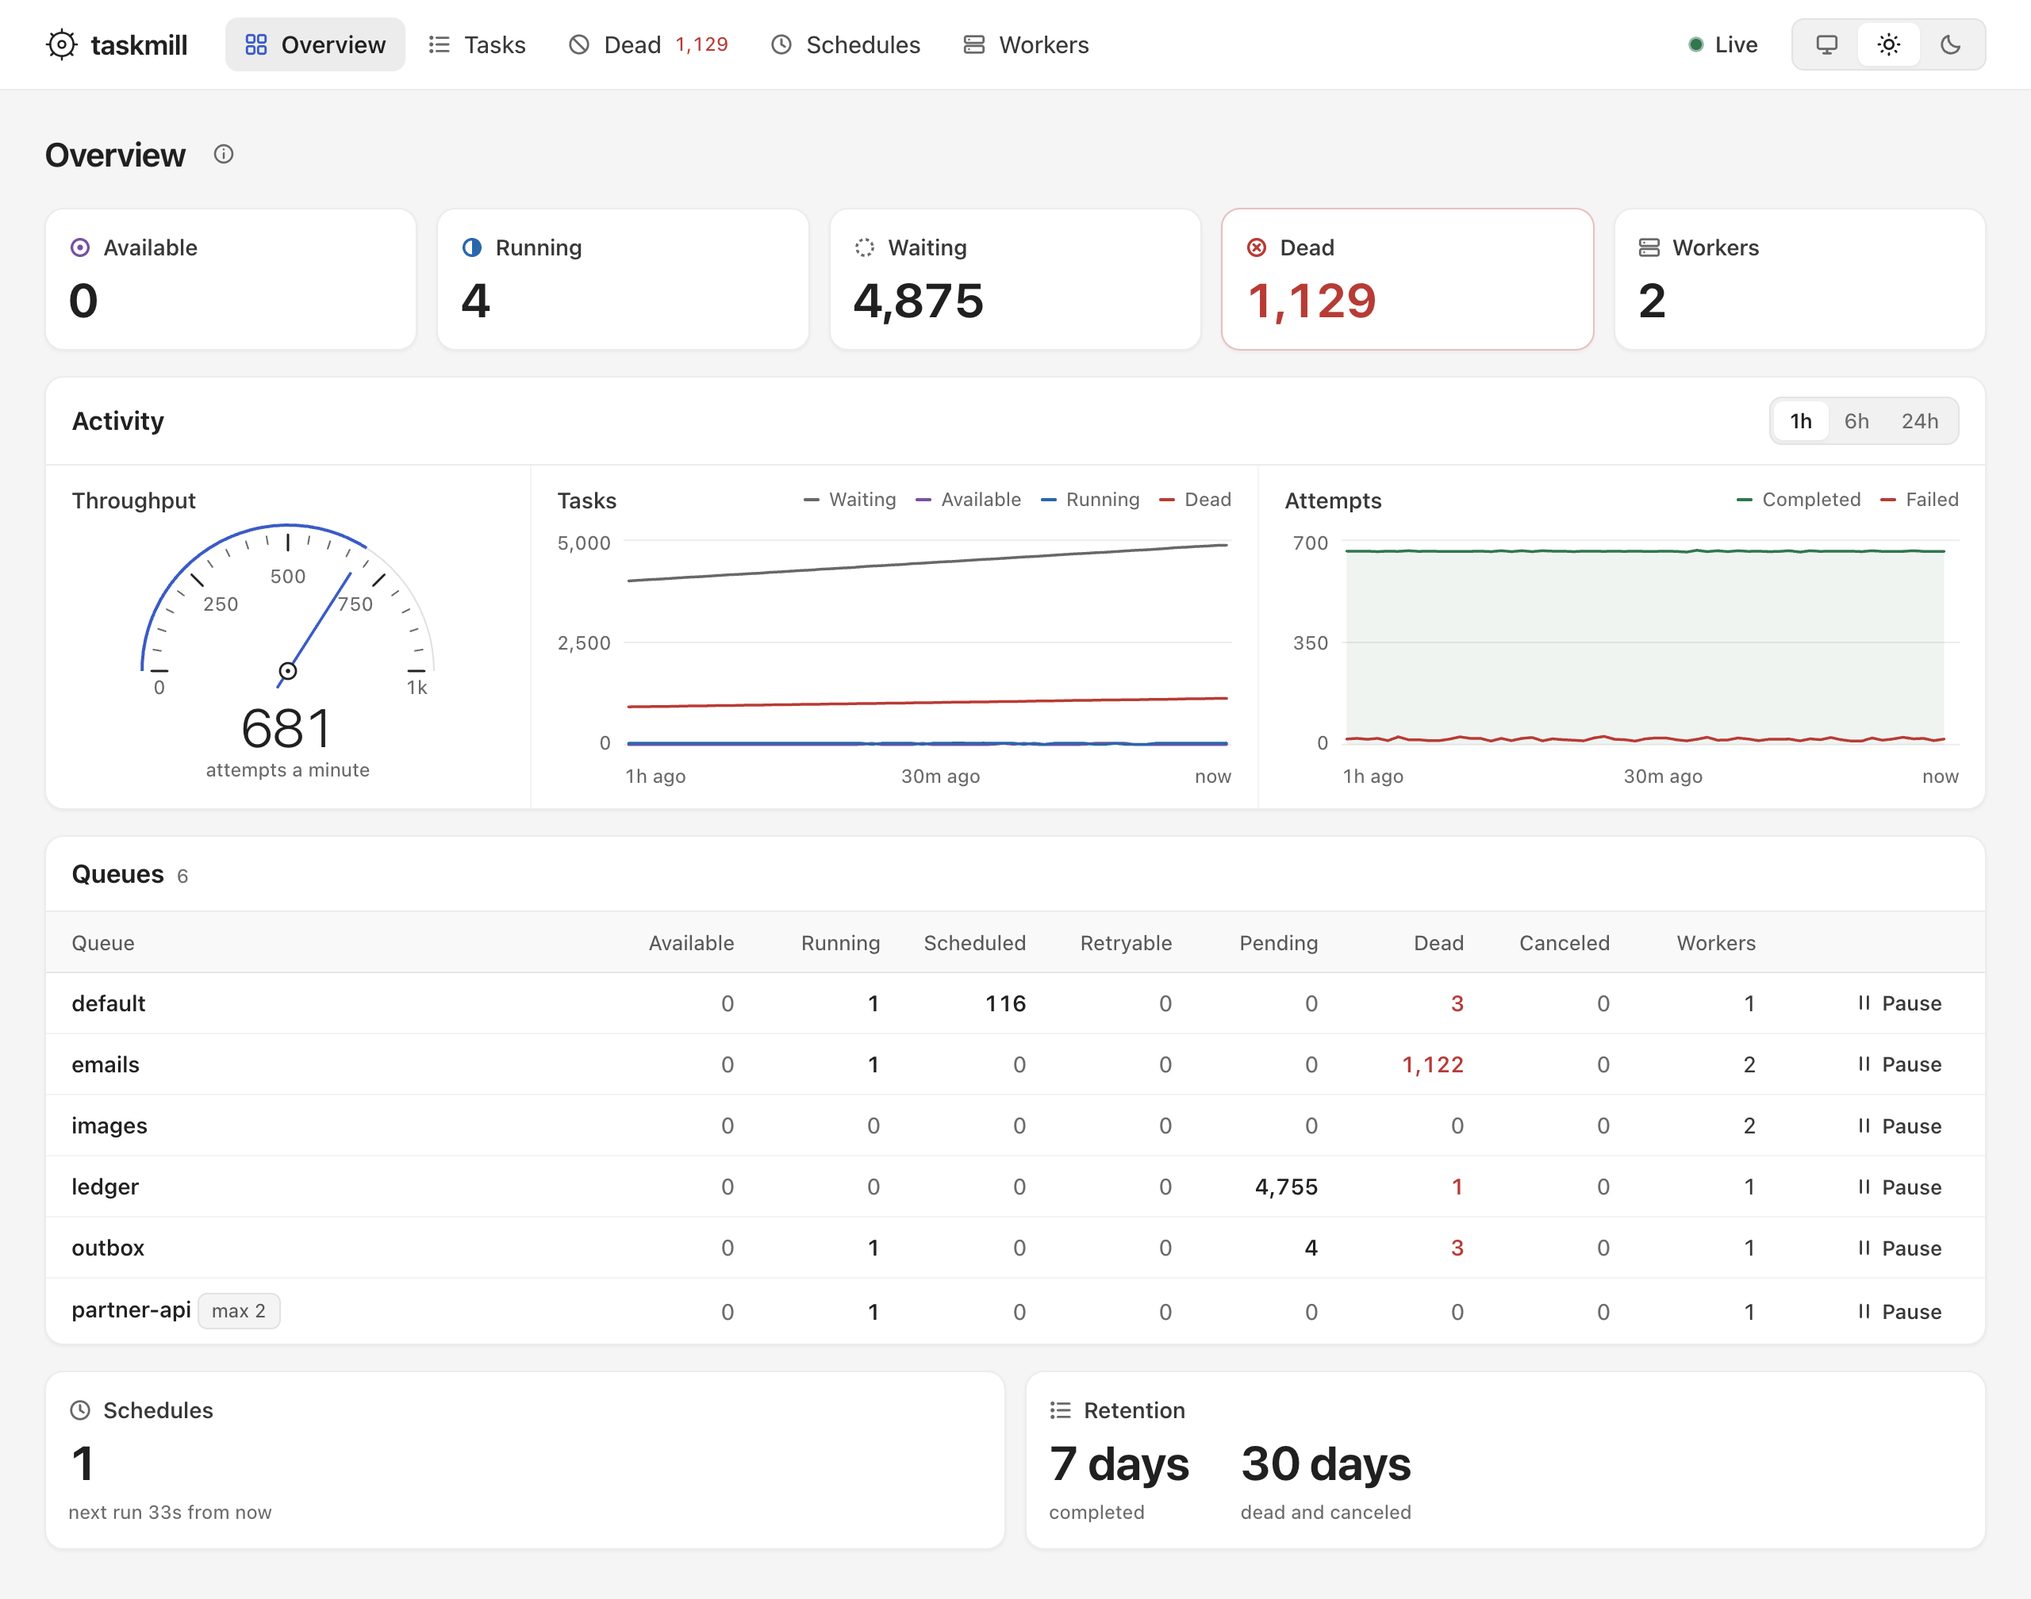
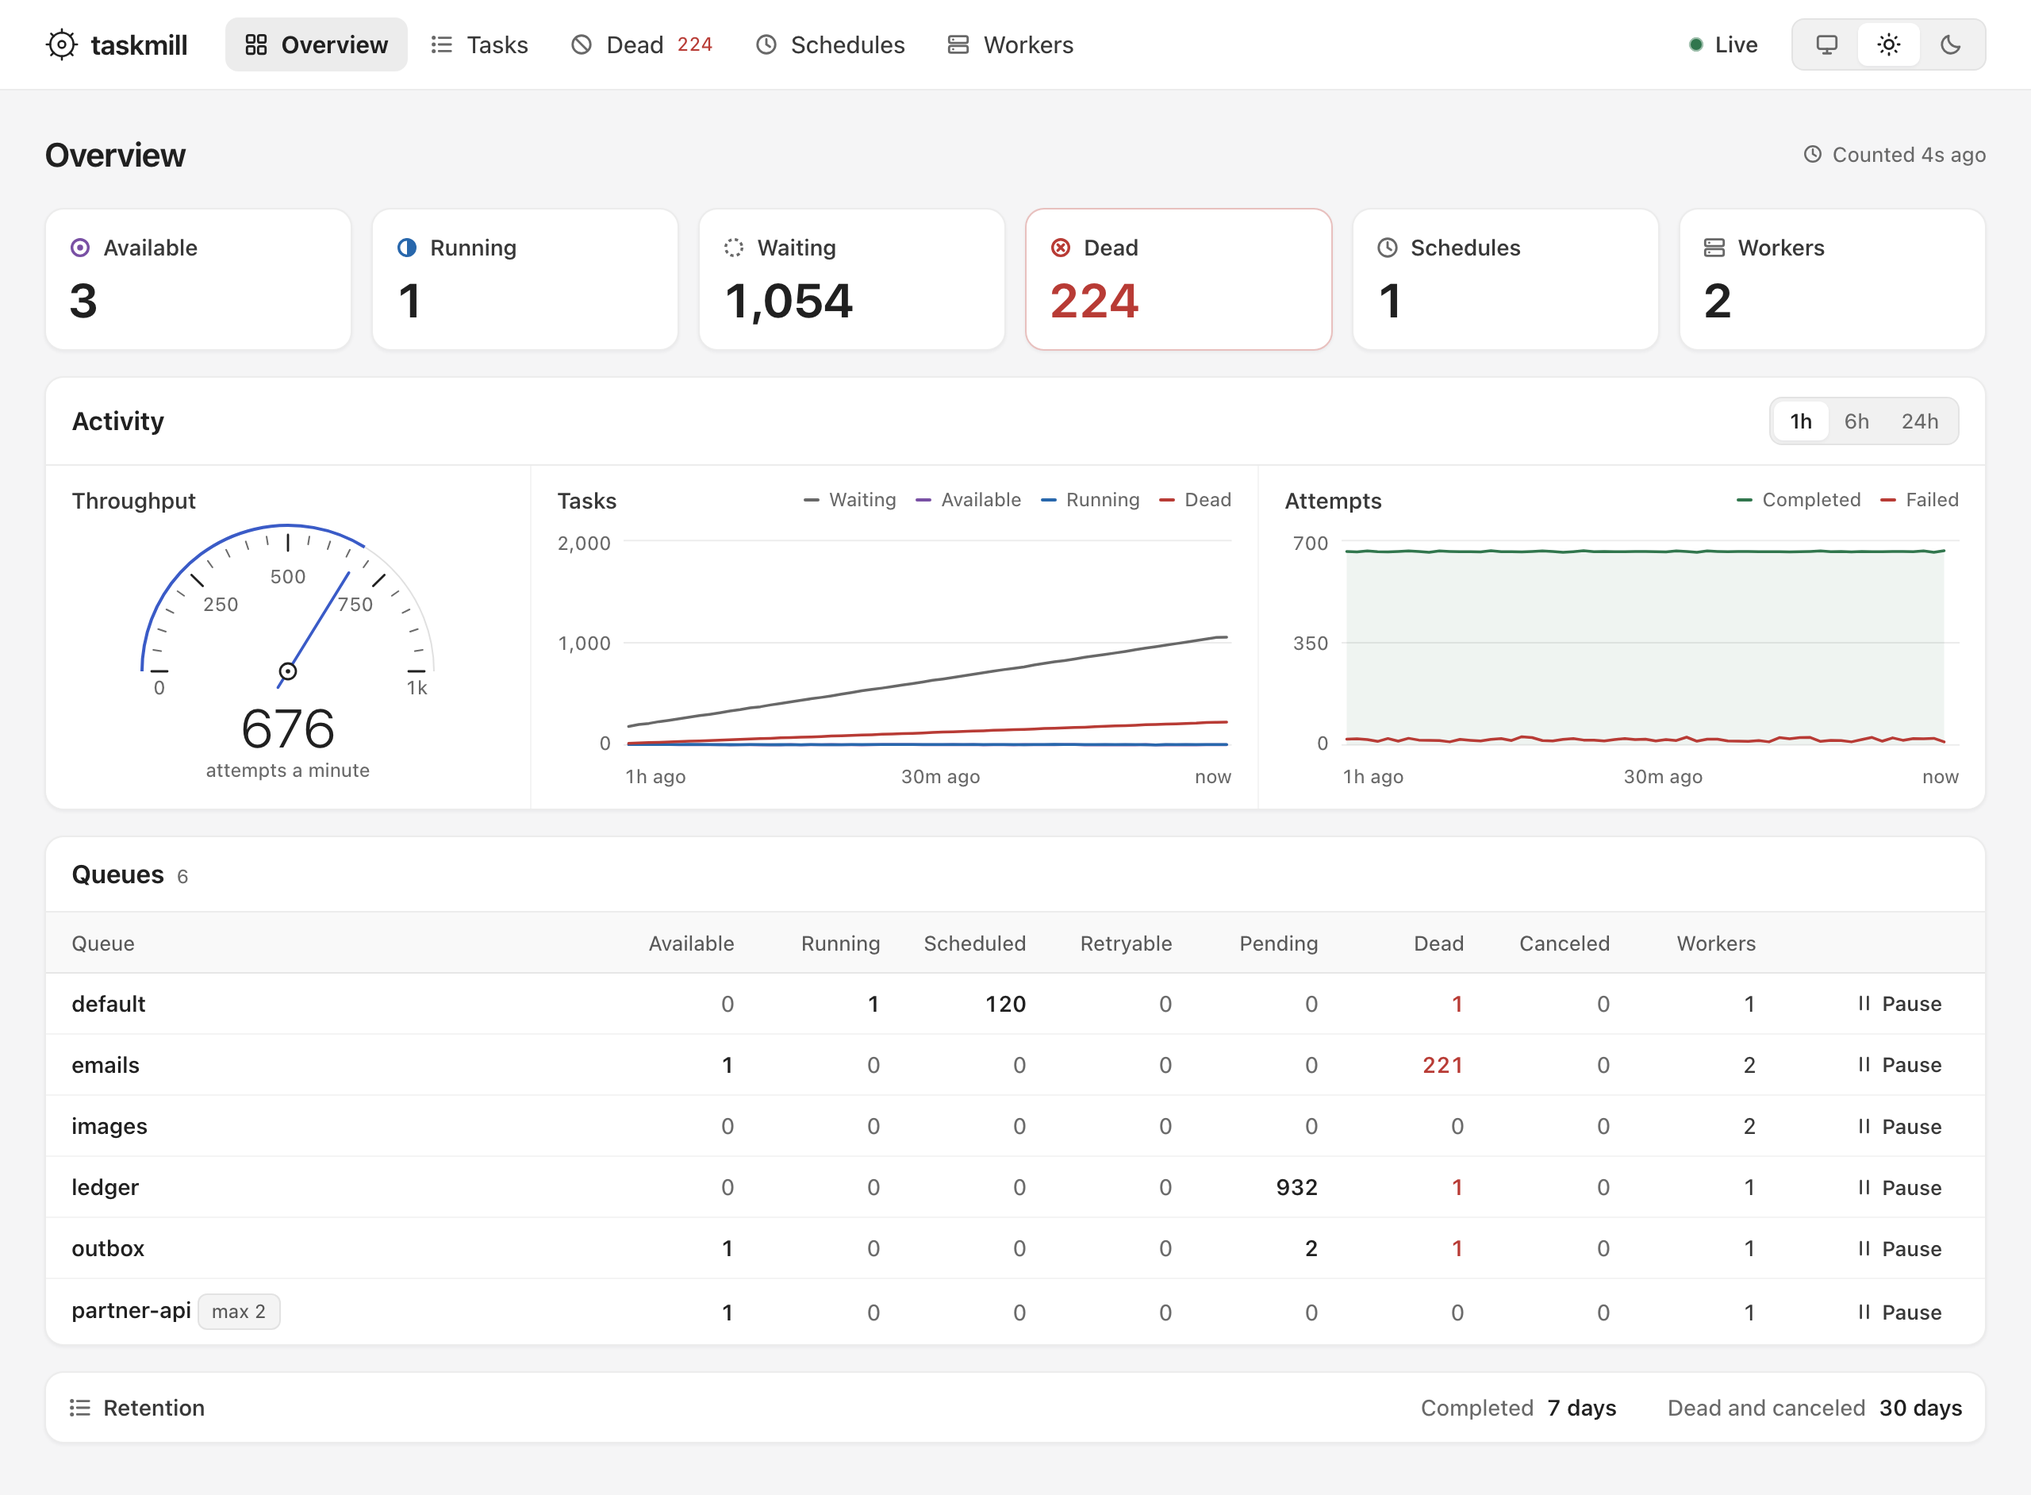
docs: refresh the README's pictures, and make its code compile (#207)
- New dashboard screenshots (light and dark) of the current overview,
with the shop example's data.
- The README's Go sample is now a compiled example that a docs test
checks against the README, so it cannot break again.
- Cleaner first screen and install section, consistent lists and links,
plain words; the packages list links to its reference page instead of
repeating it.
- Checked as GitHub renders it. `go test ./internal/docs/` and `make
check` pass. Reviewed independently over four rounds.

diff --git a/examples/internal/readme/readme_test.go b/examples/internal/readme/readme_test.go
@@ -1,0 +1,93 @@
+package readme
+
+import (
+	"context"
+	"testing"
+	"time"
+
+	"github.com/jackc/pgx/v5"
+	"github.com/jackc/pgx/v5/pgxpool"
+
+	"github.com/code19m/taskmill"
+	"github.com/code19m/taskmill/internal/testdb"
+)
+
+// mailbox is a Mailer that hands over the order ID of each receipt it sends.
+type mailbox chan int64
+
+func (m mailbox) SendReceipt(ctx context.Context, orderID int64) error {
+	select {
+	case m <- orderID:
+		return nil
+	case <-ctx.Done():
+		return ctx.Err()
+	}
+}
+
+// TestQuickLook runs the README's code: once an order's transaction commits,
+// the worker sends the order's receipt, and it stops when its context ends.
+func TestQuickLook(t *testing.T) {
+	t.Parallel()
+	pool, client := testShop(t)
+	ctx, cancel := context.WithCancel(t.Context())
+	defer cancel()
+
+	err := pgx.BeginFunc(ctx, pool, func(tx pgx.Tx) error {
+		return placeOrder(ctx, tx, client, "ann@example.com")
+	})
+	if err != nil {
+		t.Fatal(err)
+	}
+
+	sent := make(mailbox)
+	done := make(chan error, 1)
+	go func() { done <- runWorker(ctx, client, sent) }()
+	select {
+	case orderID := <-sent:
+		if orderID != 1 {
+			t.Errorf("the receipt of order %d was sent, want order 1", orderID)
+		}
+	case err := <-done:
+		t.Fatalf("the worker stopped before it sent the receipt: %v", err)
+	case <-time.After(30 * time.Second):
+		t.Fatal("no receipt was sent in 30 seconds")
+	}
+
+	cancel()
+	if err := <-done; err != nil {
+		t.Fatalf("the worker returned %v after its context ended, want nil", err)
+	}
+}
+
+// testShop returns a pool and a client in a schema of the test's own. The
+// README's SQL names no schema, so the pool's search path puts the orders
+// table there too.
+func testShop(t *testing.T) (*pgxpool.Pool, *taskmill.Client) {
+	t.Helper()
+	schema := testdb.Schema(t, testdb.Pool(t))
+	// A pooler in transaction mode refuses a search path: connect without it.
+	cfg, err := pgxpool.ParseConfig(testdb.DirectURL(t))
+	if err != nil {
+		t.Fatal(err)
+	}
+	cfg.ConnConfig.RuntimeParams["search_path"] = schema
+	pool, err := pgxpool.NewWithConfig(t.Context(), cfg)
+	if err != nil {
+		t.Fatal(err)
+	}
+	t.Cleanup(pool.Close)
+
+	if err := taskmill.Migrate(t.Context(), pool, &taskmill.MigrateConfig{Schema: schema}); err != nil {
+		t.Fatal(err)
+	}
+	_, err = pool.Exec(t.Context(), `CREATE TABLE orders (
+		id bigint GENERATED ALWAYS AS IDENTITY PRIMARY KEY, email text NOT NULL)`)
+	if err != nil {
+		t.Fatal(err)
+	}
+	client, err := taskmill.NewClient(t.Context(), pool, &taskmill.ClientConfig{Schema: schema})
+	if err != nil {
+		t.Fatal(err)
+	}
+	return pool, client
+}

diff --git a/examples/internal/readme/readme.go b/examples/internal/readme/readme.go
@@ -1,0 +1,58 @@
+// Package readme holds the code of the quick look in README.md, so that it
+// compiles. Its test runs the code against PostgreSQL. It is internal, so
+// that the README's code is not part of the module's API.
+package readme
+
+import (
+	"context"
+
+	"github.com/jackc/pgx/v5"
+
+	"github.com/code19m/taskmill"
+)
+
+// Mailer sends the shop's emails. The README leaves it out: it is the
+// reader's own code.
+type Mailer interface {
+	SendReceipt(ctx context.Context, orderID int64) error
+}
+
+// SendReceipt is a task: a Go struct with a kind. taskmill stores it as JSON.
+type SendReceipt struct {
+	OrderID int64 `json:"order_id"`
+}
+
+// Kind names the task, so that a worker finds its handler.
+func (SendReceipt) Kind() string { return "email.send_receipt" }
+
+// placeOrder saves an order and its task in tx, so both commit or neither does.
+func placeOrder(ctx context.Context, tx pgx.Tx, client *taskmill.Client, email string) error {
+	var orderID int64
+	row := tx.QueryRow(ctx, "INSERT INTO orders (email) VALUES ($1) RETURNING id", email)
+	if err := row.Scan(&orderID); err != nil {
+		return err
+	}
+
+	_, err := client.EnqueueTx(ctx, taskmill.Pgx(tx), SendReceipt{OrderID: orderID}, nil)
+	return err
+}
+
+// ReceiptSender is the handler of SendReceipt tasks.
+type ReceiptSender struct{ mailer Mailer }
+
+// Handle returns nil when the work is done, or an error to try again later.
+func (s *ReceiptSender) Handle(ctx context.Context, t *taskmill.Task[SendReceipt]) error {
+	return s.mailer.SendReceipt(ctx, t.Args.OrderID)
+}
+
+// runWorker runs tasks until ctx ends.
+func runWorker(ctx context.Context, client *taskmill.Client, mailer Mailer) error {
+	var handlers taskmill.Handlers
+	taskmill.AddHandler(&handlers, &ReceiptSender{mailer: mailer}, nil)
+
+	worker, err := taskmill.NewWorker(client, &taskmill.WorkerConfig{Handlers: &handlers})
+	if err != nil {
+		return err
+	}
+	return worker.Run(ctx)
+}

diff --git a/internal/docs/code_test.go b/internal/docs/code_test.go
@@ -13,9 +13,10 @@ import (
 )
 
 // codePages are the pages whose reader writes or runs the code they show,
-// each with the Go files of its example program. The examples compile and
-// have tests, so code that a page takes from them is code that works.
+// each with the Go files of its example. The examples compile and have
+// tests, so code that a page takes from them is code that works.
 var codePages = map[string][]string{
+	"README.md":                                  {"examples/internal/readme/readme.go"},
 	"docs/start/quickstart.md":                   {"examples/quickstart/main.go"},
 	"docs/tutorial/1-first-task.md":              {"examples/quickstart/main.go", "examples/quickstart/main_test.go"},
 	"docs/tutorial/2-tasks-with-your-data.md":    {"examples/quickstart/main.go", "examples/quickstart/main_test.go"},

diff --git a/README.md b/README.md
@@ -7,15 +7,15 @@
 
 Background tasks for Go, kept in your PostgreSQL database.
 
-If your service already uses PostgreSQL, your tasks can live there too. You
-run one less system, and each task commits or rolls back with your data.
+If your service already uses PostgreSQL, keep its tasks there too. You run
+one less system, and each task commits or rolls back with your data.
 
 - **In your transaction.** Add a task in the same transaction as your data,
   with pgx or `database/sql`. If the transaction rolls back, the task never
   existed.
-- **Never loses a task.** Every task runs at least once. When a worker
-  crashes, another worker runs its tasks. A task that keeps failing is kept
-  as a dead task, so that you can fix the cause and retry it.
+- **No lost tasks.** Every task runs at least once. When a worker crashes,
+  another worker runs its tasks. A task that keeps failing is kept as a
+  dead task, so that you can fix the cause and retry it.
 - **In order when you need it.** Tasks with the same key, such as one
   customer's, run one at a time, in order.
 - **Outbox included.** Publish events to Kafka, NATS, or RabbitMQ only if
@@ -23,15 +23,14 @@ run one less system, and each task commits or rolls back with your data.
 - **Dashboard included.** Watch queues and tasks, and retry, cancel, or
   delete them. Mount it in your app, or run it on its own.
 
-To try it, run the [quickstart](docs/start/quickstart.md): your first task,
-in the dashboard, in about 15 minutes.
+It also has delays, priorities, cron schedules, deduplication, limits across
+all workers, batch handlers, logs through `log/slog`, and OpenTelemetry. Its
+only direct dependency is pgx. One worker runs about 26,000 tasks a second,
+with handlers that do nothing, on 4 CPUs: see
+[Performance](docs/reference/performance.md).
 
-Also: delays, priorities, cron schedules, deduplication, limits across all
-workers, batch handlers, logs through `log/slog`, and OpenTelemetry. The
-only direct dependency is pgx. One worker with `Concurrency` 64 drained a
-backlog at about 26,000 tasks per second, with handlers that do nothing, on
-GitHub's standard runner: 4 CPUs shared with PostgreSQL 18, in November 2026
-([benchmarks](docs/design/benchmarks.md#throughput)).
+Start with the [quickstart](docs/start/quickstart.md): your first task, in
+the dashboard, in about 15 minutes.
 
 <picture>
   <source media="(prefers-color-scheme: dark)" srcset="docs/images/dashboard-dark.png">
@@ -39,50 +38,6 @@ GitHub's standard runner: 4 CPUs shared with PostgreSQL 18, in November 2026
 </picture>
 
 The dashboard, showing the [shop example](examples/shop).
-
-## A quick look
-
-```go
-// A task is a Go struct with a kind. taskmill stores it as JSON.
-type SendReceipt struct {
-	OrderID int64 `json:"order_id"`
-}
-
-func (SendReceipt) Kind() string { return "email.send_receipt" }
-
-// placeOrder saves an order and its task in one transaction: both, or neither.
-func placeOrder(ctx context.Context, pool *pgxpool.Pool, client *taskmill.Client, email string) error {
-	return pgx.BeginFunc(ctx, pool, func(tx pgx.Tx) error {
-		var orderID int64
-		err := tx.QueryRow(ctx, "INSERT INTO orders (email) VALUES ($1) RETURNING id", email).Scan(&orderID)
-		if err != nil {
-			return err
-		}
-		_, err = client.EnqueueTx(ctx, taskmill.Pgx(tx), SendReceipt{OrderID: orderID}, nil)
-		return err
-	})
-}
-
-// runWorker runs tasks until ctx ends. A handler returns nil when the work is
-// done, or an error to try again later.
-func runWorker(ctx context.Context, client *taskmill.Client) error {
-	var handlers taskmill.Handlers
-	taskmill.AddHandler(&handlers, taskmill.HandlerFunc[SendReceipt](
-		func(ctx context.Context, t *taskmill.Task[SendReceipt]) error {
-			slog.InfoContext(ctx, "sending the receipt", "order_id", t.Args.OrderID)
-			return nil
-		}), nil)
-	worker, err := taskmill.NewWorker(client, &taskmill.WorkerConfig{Handlers: &handlers})
-	if err != nil {
-		return err
-	}
-	return worker.Run(ctx)
-}
-```
-
-The [quickstart](docs/start/quickstart.md) runs this as a complete
-program, with the dashboard, in about 15 minutes. The
-[tutorial](docs/tutorial/README.md) builds it with you, step by step.
 
 ## Install
 
@@ -92,36 +47,70 @@ go get github.com/code19m/taskmill
 
 You need Go 1.26 or newer, and PostgreSQL 15 or newer.
 
+## A quick look
+
+You add a task in your own transaction, and a worker runs its handler:
+
+```go
+// SendReceipt is a task: a Go struct with a kind. taskmill stores it as JSON.
+type SendReceipt struct {
+	OrderID int64 `json:"order_id"`
+}
+
+// Kind names the task, so that a worker finds its handler.
+func (SendReceipt) Kind() string { return "email.send_receipt" }
+
+// placeOrder saves an order and its task in tx, so both commit or neither does.
+func placeOrder(ctx context.Context, tx pgx.Tx, client *taskmill.Client, email string) error {
+	var orderID int64
+	row := tx.QueryRow(ctx, "INSERT INTO orders (email) VALUES ($1) RETURNING id", email)
+	if err := row.Scan(&orderID); err != nil {
+		return err
+	}
+
+	_, err := client.EnqueueTx(ctx, taskmill.Pgx(tx), SendReceipt{OrderID: orderID}, nil)
+	return err
+}
+
+// ReceiptSender is the handler of SendReceipt tasks.
+type ReceiptSender struct{ mailer Mailer }
+
+// Handle returns nil when the work is done, or an error to try again later.
+func (s *ReceiptSender) Handle(ctx context.Context, t *taskmill.Task[SendReceipt]) error {
+	return s.mailer.SendReceipt(ctx, t.Args.OrderID)
+}
+
+// runWorker runs tasks until ctx ends.
+func runWorker(ctx context.Context, client *taskmill.Client, mailer Mailer) error {
+	var handlers taskmill.Handlers
+	taskmill.AddHandler(&handlers, &ReceiptSender{mailer: mailer}, nil)
+
+	worker, err := taskmill.NewWorker(client, &taskmill.WorkerConfig{Handlers: &handlers})
+	if err != nil {
+		return err
+	}
+	return worker.Run(ctx)
+}
+```
+
+`Mailer` is your own code that sends emails. The
+[tutorial](docs/tutorial/README.md) builds a small shop like this, step by
+step.
+
 ## Learn more
 
-- **[Quickstart](docs/start/quickstart.md):** run your first task, and watch it in the dashboard.
-- **[Fit taskmill to your architecture](docs/start/architectures.md):** a monolith, modules, services, serverless functions, several regions, or many tenants.
-- **[Tutorial](docs/tutorial/README.md):** build a small shop step by step, from one task to a program that is ready to ship.
-- **[Documentation](docs/README.md):** concepts, guides, and running in production.
-- **[How do I…?](docs/recipes/README.md):** the best way to do common things.
-- **[API reference](https://pkg.go.dev/github.com/code19m/taskmill)** on pkg.go.dev.
-- **[Shop example](examples/shop):** a small shop that uses most features, with its dashboard.
-
-| Package | What it is |
-|---|---|
-| [`taskmill`](https://pkg.go.dev/github.com/code19m/taskmill) | The client, workers, schedules, and the operations API |
-| [`taskmill/outbox`](https://pkg.go.dev/github.com/code19m/taskmill/outbox) | The outbox, to publish to a message broker |
-| [`taskmill/ui`](https://pkg.go.dev/github.com/code19m/taskmill/ui) | The dashboard, as an `http.Handler` |
-| [`taskmill/cmd/taskmill-ui`](https://pkg.go.dev/github.com/code19m/taskmill/cmd/taskmill-ui) | The dashboard as a program of its own |
-| [`taskmill/taskmilltest`](https://pkg.go.dev/github.com/code19m/taskmill/taskmilltest) | Helpers to test your code against a real PostgreSQL |
-| [`taskmill/otel`](https://pkg.go.dev/github.com/code19m/taskmill/otel) | OpenTelemetry traces and metrics, in a module of its own |
-
-## Status
-
-taskmill is before v1.0.0, so a minor release may break the API: the
-changelog marks each such change with **Breaking:** and says how to migrate.
-[Compatibility](docs/reference/compatibility.md) says what each release
-promises.
+- [Why taskmill](docs/start/why-taskmill.md): whether it fits your project, and how it compares with other tools
+- [Fit taskmill to your architecture](docs/start/architectures.md): a monolith, modules, services, serverless functions, several regions, or many tenants
+- [Documentation](docs/README.md): concepts, guides, recipes, and running in production
+- [Packages](docs/reference/packages.md): which package to import for what
+- [API reference](https://pkg.go.dev/github.com/code19m/taskmill): every type and function, on pkg.go.dev
+- [Shop example](examples/shop): a small shop that uses most features, with its dashboard
+- [Changelog](CHANGELOG.md): what changed in each release, and how to upgrade
 
 ## Contributing
 
-Contributions are welcome. Please read [CONTRIBUTING.md](CONTRIBUTING.md)
-before you open a pull request. Report security issues privately, as
+Contributions are welcome: read [CONTRIBUTING.md](CONTRIBUTING.md) before
+you open a pull request. Report security issues privately, as
 [SECURITY.md](SECURITY.md) describes.
 
 ## License

diff --git a/CHANGELOG.md b/CHANGELOG.md
@@ -9,6 +9,10 @@ All notable changes to taskmill are recorded here. The format follows
 
 ### Changed
 
+- The README is easier to scan: what taskmill is, why, and how to start
+  come first. A test now runs its code, and its pictures show the current
+  dashboard. It links to [Packages](docs/reference/packages.md) instead of
+  listing the packages.
 - The dashboard serves its static files at `/static/{version}/{name}`, in
   place of `/static/{name}?v=...`, and its script as native ES modules
   that the page preloads, with no build step. The pages work as before,
